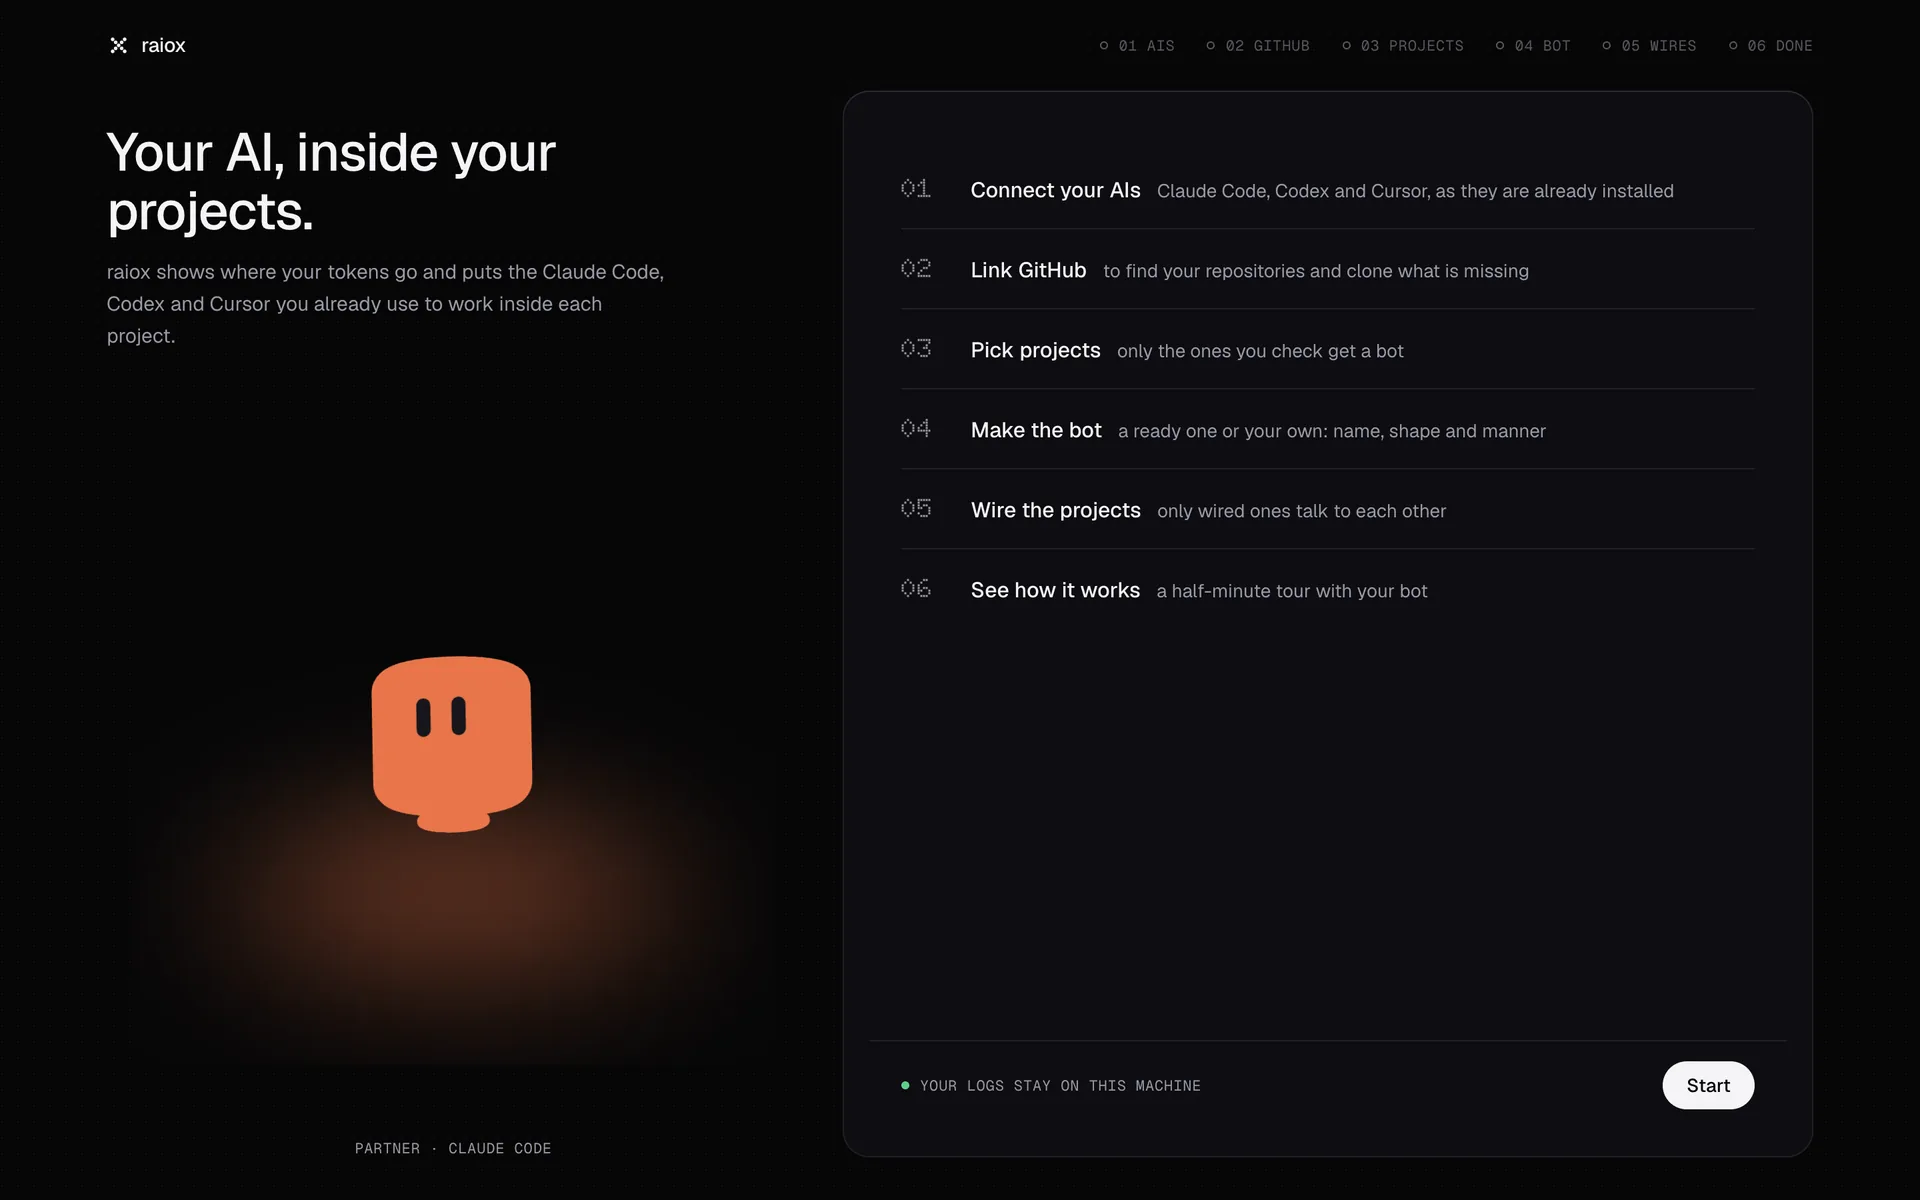
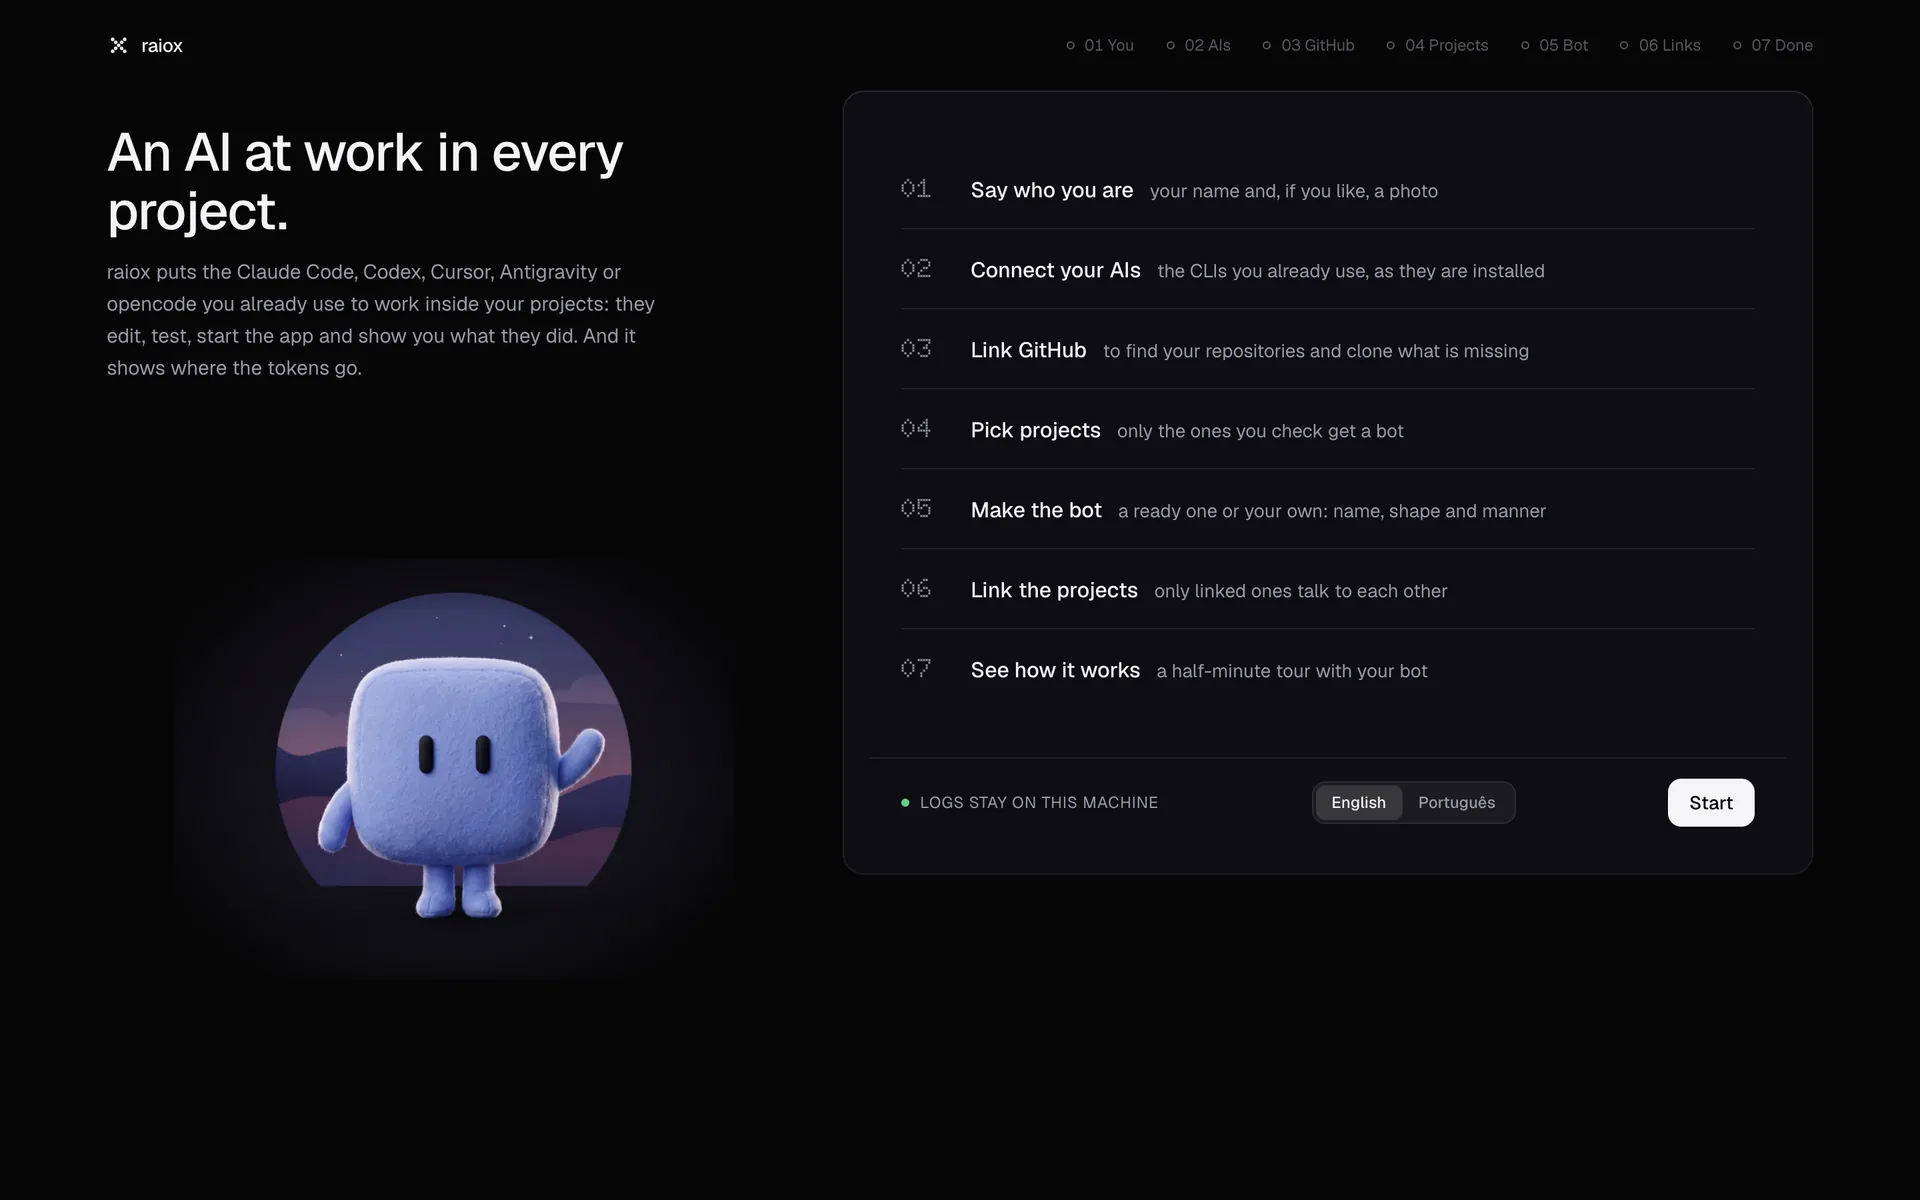
docs: the README shows the new panel, the first run, Workflows and Usage
Every screenshot is retaken from the made-up demo with the redesigned
panel (shorter sidebar, tabs, each AI's mark, one level of depth), and
three are new: Workflows, Usage, and the first run's welcome and You
step. The text mentions tabs, the marks and "/" in the chat, and that
the X-ray, Usage and Efficiency sit under Consumption.

diff --git a/README.md b/README.md
@@ -24,8 +24,13 @@ that make every request cheaper.
    time macOS asks you to right-click › Open and Windows to click More info ›
    Run anyway.
 2. Have at least one of the CLIs above installed and signed in.
-3. Open raiox. The first run connects your AIs, finds your projects and makes
-   an AI for the ones you pick. raiox uploads nothing.
+3. Open raiox. The first run asks your name (and, if you like, a photo),
+   connects your AIs, finds your projects and makes an AI for the ones you
+   pick. raiox uploads nothing.
+
+![The first run: an AI at work in every project, in seven short steps](docs/screenshots/onboarding.webp)
+
+![The first step: your name and, if you like, a photo from your computer or your GitHub](docs/screenshots/onboarding-you.webp)
 
 Intel Macs and Linux: [build from source](docs/building.md).
 
@@ -44,9 +49,11 @@ Intel Macs and Linux: [build from source](docs/building.md).
 - **Asking first, when you prefer.** It reads and answers; a change it
   proposes is made in a copy you review, apply and undo. When it needs more,
   its answer carries a card that gives it full access and lets it go on.
-- **Your way of talking.** Several conversations per project, images in the
-  chat, a correction while it works, Stop, and switching a conversation to
-  another AI with its recent messages.
+- **Your way of talking.** Several conversations per project, open as tabs
+  across projects, images in the chat, a correction while it works, Stop, and
+  switching a conversation to another AI with its recent messages. Each AI
+  shows its own mark beside its model and effort, and `/` in the message
+  field calls Ray, Diet and Memo.
 
 ![An AI that asks first: it says what it needs and offers full access in one click](docs/screenshots/access.webp)
 
@@ -77,6 +84,8 @@ steps in a line: ask an AI, wait for your approval, post in a channel, each
 step able to use the answer before it. Drawn as one line you edit in place;
 the step being run lights up.
 
+![Workflows: a morning check that asks one AI, waits for your approval, then asks another](docs/screenshots/workflows.webp)
+
 **And more:** ⌘K to go anywhere, the use of each AI's plan as two rings
 beside your profile, routines on a schedule, channels where several AIs talk with a
 free router, one question to several projects at once, a reviewer AI that reads
@@ -86,8 +95,12 @@ logs at no cost. From your phone (pairing by QR) or Telegram too.
 
 ## Where the tokens go
 
+Three pages under Consumption in the sidebar, their names as the tabs.
+
 **Usage.** What your AIs' use would cost at API prices: per day, per AI, per
-model and per project.
+model and per project, over 7, 30 or 90 days.
+
+![Usage: the cost at API prices, each AI's share, the cost per day and a breakdown by model](docs/screenshots/usage.webp)
 
 **X-ray.** Tokens read and written, what they would cost paying per use, when
 you use your AIs, how much each request re-reads and what gets re-read most,
